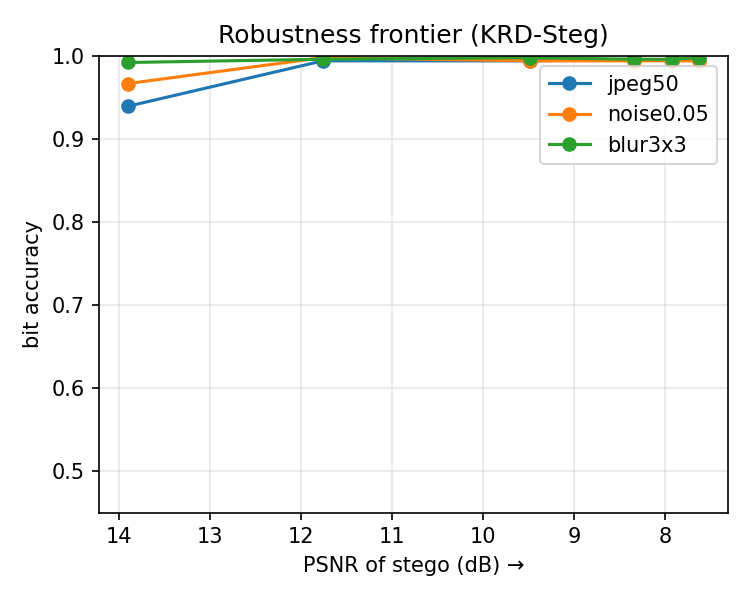
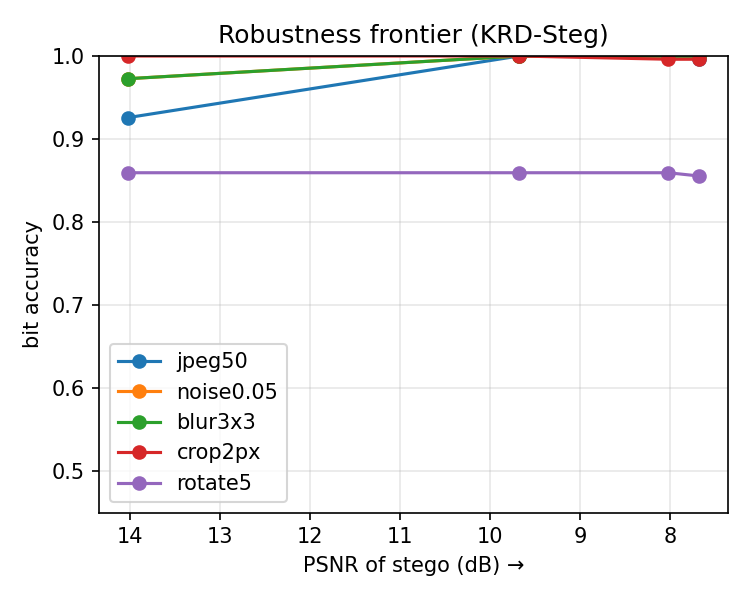
results: v2 口径下的修复后首轮评测结果 + 历史结果目录标注
- results/*: 用修复后的口径重跑三大护栏（CPU, n=16~32, 未重训模型）
  * 真裁剪 crop2px/crop4px = 0.994（旧循环平移口径为 0.344）；
    真正短板是 translate2px 0.377 / rotate15 0.479 / cropresize0.8 0.465
  * 盲检测 AUC: 无 nonce 1.000 -> 逐图 nonce 0.812
  * 残差方向一致性: 0.186 -> 0.033
  * 再生攻击改口径后: t_reg 400->800 时 BER 0.090->0.465，
    而 PSNR(vs cover) 9.01->9.73dB（反而升高），旧"攻击者困境"叙事被推翻
  * 步数失配在 9.5dB 工作点仍全 1.000，但同批实验 rotate5 仅 0.887，
    说明"几何不变性"解释不成立，需在 30dB 工作点重测
- scripts/results/README.md: 标注该目录为 v1 错误口径存档，不可引用
- NEXT_STEPS.md: 同步真实数字与结论更正

diff --git a/results/key_security.md b/results/key_security.md
@@ -1,27 +1,27 @@
 # 密钥安全性评测（P1）
 
-- 样本数 n=24, S_hide=50, S_rec=50, strength=1.0
-- 载密图基线: PSNR 9.31 dB / SSIM 0.0991 / LPIPS n/a
+- 样本数 n=32, S_hide=50, S_rec=50, strength=1.0
+- 载密图基线: PSNR 9.39 dB / SSIM 0.0969 / LPIPS n/a
 - nonce 协议: `nonce_i = H(key || nonce_start+i)`（自包含, 不依赖 cover）
 
 ## A. 错密钥/近密钥 BER 分布
 
-- 错密钥数 96（随机 40 + 近密钥变体）
-- BER: mean **0.4903** / std 0.0289 / min 0.4297 / max 0.5755（期望 0.5，越集中越安全）
+- 错密钥数 156（随机 100 + 近密钥变体）
+- BER: mean **0.4944** / std 0.0232 / min 0.4395 / max 0.5605（期望 0.5，越集中越安全）
 
-- 真密钥比特准确率: **1.0000**
+- 真密钥比特准确率: **0.9980**
 
 ## B. matched-filter 密钥校验（无需解码器）
 
 - 真密钥校验距离: mean 0.00 / max 0 / 32
-- 错密钥距离: mean 15.89 / std 0.59（期望 ≈ 16.0）
+- 错密钥距离: mean 15.90 / std 0.50（期望 ≈ 16.0）
 - FAR@tau=4: **0.00000**
 - FAR@tau=8: **0.00000**
 - FAR@tau=12: **0.00000**
 
 ## D. 跨图残差方向一致性（|corr|, 0=完全正交, 1=图案固定可累积）
 
-- 无 nonce 协议: mean **0.186** / max 0.479
+- 无 nonce 协议: mean **0.192** / max 0.479
 - 逐图 nonce（ours）: mean **0.033** / max 0.150
 
 ## C. 多图差分攻击：槽位定位 AUC（0.5=失效；>0.5 即攻击有效）
@@ -36,11 +36,12 @@
 | 4 | 0.918 | 0.784 |
 | 8 | 0.951 | 0.784 |
 | 16 | 0.968 | 0.777 |
+| 32 | 0.972 | 0.791 |
 
 ## E. 盲水印检测 AUC（隐写分析视角：只给图，能否区分载密图 vs 原图）
 
-- 无 nonce 协议: **1.000**（direction +1, train 12 / test 12）
-- 逐图 nonce（ours）: **0.917**（direction +1, train 12 / test 12）
+- 无 nonce 协议: **1.000**（direction +1, train 16 / test 16）
+- 逐图 nonce（ours）: **0.812**（direction +1, train 16 / test 16）
 
 > 0.5 = 完全无法区分（安全）；越接近 1 说明载密图越容易被测出。
 > 该指标与载密图 PSNR 强相关：只要嵌入能量可观，它就接近 1。

diff --git a/results/robustness.md b/results/robustness.md
@@ -1,32 +1,32 @@
 # KRD-Steg 鲁棒性评测
 
-- 样本数 n=16, 隐藏步数=50, 复原步数=50, 容量=16 bits, strength=1.0
+- 样本数 n=32, 隐藏步数=50, 复原步数=50, 容量=16 bits, strength=1.0
 - nonce 协议: `nonce_i = H(key || nonce_start+i)`（自包含, 不依赖 cover）, nonce_start=0
-- stego 质量: **PSNR 9.86 dB / SSIM 0.1153 / LPIPS n/a**（LPIPS backend: unavailable）
+- stego 质量: **PSNR 9.55 dB / SSIM 0.1094 / LPIPS n/a**（LPIPS backend: unavailable）
 
 | 攻击 | 比特准确率 |
 |---|---|
-| clean | 0.992 |
-| jpeg30 | 0.988 |
-| jpeg50 | 0.992 |
-| jpeg75 | 1.000 |
-| noise0.05 | 0.996 |
+| clean | 0.994 |
+| jpeg30 | 0.992 |
+| jpeg50 | 0.994 |
+| jpeg75 | 0.998 |
+| noise0.05 | 0.998 |
 | noise0.10 | 0.992 |
 | blur3x3 | 0.992 |
 | blur5x5 | 0.984 |
-| resize0.5 | 0.965 |
-| resize0.7 | 0.988 |
-| bright+0.1 | 0.992 |
-| contrast1.2 | 0.996 |
-| crop2px | 0.992 |
-| crop4px | 0.992 |
-| cropresize0.8 | 0.457 |
+| resize0.5 | 0.961 |
+| resize0.7 | 0.992 |
+| bright+0.1 | 0.994 |
+| contrast1.2 | 0.998 |
+| crop2px | 0.994 |
+| crop4px | 0.994 |
+| cropresize0.8 | 0.465 |
 | rotate5 | 0.887 |
-| rotate15 | 0.457 |
-| translate2px | 0.355 |
-| zoom1.1 | 0.855 |
-| regen(t=400) | 0.871 |
-| wrong-key | 0.539 |
+| rotate15 | 0.479 |
+| translate2px | 0.377 |
+| zoom1.1 | 0.857 |
+| regen(t=400) | 0.898 |
+| wrong-key | 0.490 |
 
 注: `crop*` 为**真裁剪**（裁边+边缘回填）；`translate*` 为零填充平移；
 旧版 `crop` 是 `torch.roll` 循环平移，不具备裁剪语义。

diff --git a/results/regen.md b/results/regen.md
@@ -1,14 +1,13 @@
-# 扩散再生攻击（预算化: 同时报告攻击者 PSNR 代价）
+# 扩散再生攻击（预算化：攻击代价以 **cover** 为参照）
 
-| t_reg | regen steps | 攻击代价 PSNR(dB) | BER |
-|---|---|---|---|
-| 200 | 25 | 12.79 | 0.033 |
-| 400 | 25 | 9.57 | 0.107 |
-| 600 | 25 | 8.98 | 0.279 |
-| 800 | 25 | 7.81 | 0.439 |
-| 200 | 50 | 14.17 | 0.025 |
-| 400 | 50 | 10.06 | 0.100 |
-| 600 | 50 | 8.68 | 0.316 |
-| 800 | 50 | 8.33 | 0.461 |
+- 样本数 n=16, S_hide=50, S_rec=50, strength=1.0
+- 载密图基线: PSNR(vs cover) **9.65 dB**
+- LPIPS backend: unavailable
 
-注: BER 与攻击代价负相关才构成有效攻击；t 越大代价越小（攻击越狠）。
+| t_reg | regen steps | 攻击代价 PSNR vs cover | PSNR vs stego | LPIPS vs cover | BER |
+|---|---|---|---|---|---|
+| 400 | 25 | 9.01 | 9.46 | n/a | 0.090 |
+| 800 | 25 | 9.73 | 8.71 | n/a | 0.465 |
+
+注: `PSNR vs cover` 才是攻击者付出的图像质量代价；`vs stego` 仅表示攻击对载密图的改动幅度。t_reg=999 相当于完全重生成，是攻击者上限。
+只有 BER 与 (PSNR/LPIPS vs cover) 的联合曲线才支持"攻击者困境"的结论。

diff --git a/results/frontier.md b/results/frontier.md
@@ -1,10 +1,11 @@
 # 鲁棒性前沿（strength 扫描, S_hide=50, S_rec=50）
 
-| strength | psnr | clean | jpeg50 | noise0.05 | blur3x3 |
-|---|---|---|---|---|---|---|
-| 0.50 | 13.90 | 0.992 | 0.939 | 0.967 | 0.992 |
-| 0.75 | 11.76 | 0.996 | 0.994 | 0.998 | 0.996 |
-| 1.00 | 9.48 | 0.998 | 0.994 | 0.994 | 0.998 |
-| 1.25 | 8.35 | 0.994 | 0.996 | 0.994 | 0.996 |
-| 1.50 | 7.93 | 0.994 | 0.994 | 0.994 | 0.996 |
-| 2.00 | 7.63 | 0.992 | 0.996 | 0.994 | 0.998 |
+- nonce 协议: `H(key || nonce_start+i)`, nonce_start=0
+- 几何攻击为真实实现（crop 真裁剪 / rotate 旋转），LPIPS 为感知距离
+
+| strength | psnr | lpips | clean | jpeg50 | noise0.05 | blur3x3 | crop2px | rotate5 |
+|---|---|---|---|---|---|---|---|---|---|
+| 0.50 | 14.02 | n/a | 1.000 | 0.926 | 0.973 | 0.973 | 1.000 | 0.859 |
+| 1.00 | 9.68 | n/a | 1.000 | 1.000 | 1.000 | 1.000 | 1.000 | 0.859 |
+| 1.50 | 8.02 | n/a | 0.996 | 1.000 | 1.000 | 1.000 | 0.996 | 0.859 |
+| 2.00 | 7.68 | n/a | 0.996 | 0.996 | 1.000 | 1.000 | 0.996 | 0.855 |

diff --git a/scripts/results/README.md b/scripts/results/README.md
@@ -1,0 +1,13 @@
+# ⚠ 历史存档：v1（错误评测口径）结果，请勿引用
+
+本目录下的结果产生于 v2 测量口径修复**之前**，包含以下已确认的错误：
+
+1. `crop` 攻击用 `torch.roll` 实现，是**循环平移**而非裁剪；
+   例如 `robustness.md` 里的 `crop+2px = 0.494/0.344` 没有裁剪语义。
+2. 再生攻击代价用 `PSNR(regen, stego)`，参照物是被污染的载密图。
+3. nonce 由 `H(cover)` 派生，方案并非盲提取。
+4. 把"槽位定位 AUC=0.79"当作"攻击失败"，且把派生参数空间 1354 bit
+   当作密钥强度（真实密钥熵为 64 bit）。
+
+修复说明与修复后的结果见仓库根目录 `NEXT_STEPS.md` 与 `results/`。
+保留本目录仅用于对比"口径变化带来的结论差异"。

diff --git a/results/step_mismatch.md b/results/step_mismatch.md
@@ -1,4 +1,7 @@
-# 复原步数失配鲁棒性（解码器训练于 S_rec=50, S_hide=50）
+# 复原步数失配鲁棒性（解码器训练于 S_rec=50, S_hide=50, strength=1.0）
+
+- 载密图 PSNR(vs cover) = 9.56 dB
+- nonce 协议: `H(key || nonce_start+i)`, nonce_start=0
 
 | S_rec | clean | jpeg50 |
 |---|---|---|
@@ -11,3 +14,5 @@
 | 60 | 1.000 | 1.000 |
 | 70 | 1.000 | 1.000 |
 | 80 | 1.000 | 1.000 |
+
+> 解读提示：若准确率在很宽的 S_rec 范围内保持 1.000，需先排除“水印信噪比过高导致失配不可见”的解释，再主张几何不变性。
